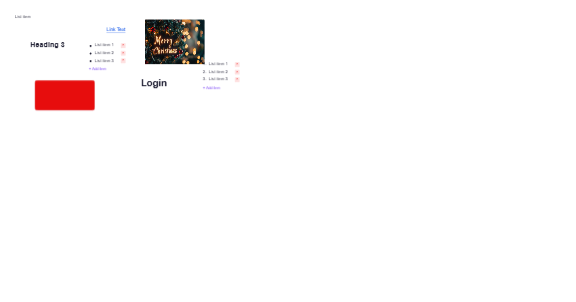
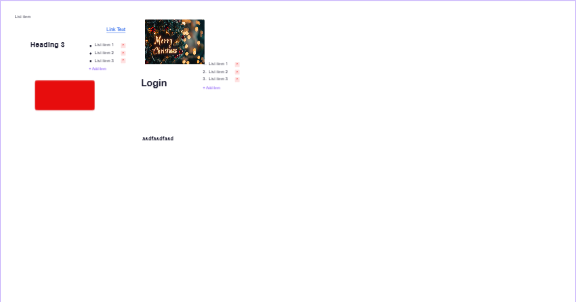
sfdasd

Changed region(s): [[0.0, 0.0, 1.0, 0.0298], [0.25, 0.447, 0.3125, 0.4768]]

diff --git a/src/pages/login/login.board.tsx b/src/pages/login/login.board.tsx
@@ -20,6 +20,7 @@ const Login = () => {
       </ol>
       <li className="el-f573a63eb8b8">List item</li>
       <h3 className="el-197610fd20d8">Heading 3</h3>
+      <h5 className="el-fdc043b7e9c8">asdfasdfasd</h5>
     </div>
   );
 };

diff --git a/src/pages/login/login.css b/src/pages/login/login.css
@@ -187,3 +187,13 @@ a {
   font-weight: bold;
   color: #1a1a2e;
 }
+
+.el-fdc043b7e9c8 {
+  position: absolute;
+  left: 474px;
+  top: 452px;
+  margin: 0px 0px 0px 0px;
+  font-size: 18px;
+  font-weight: bold;
+  color: #1a1a2e;
+}
